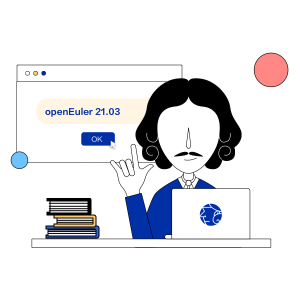
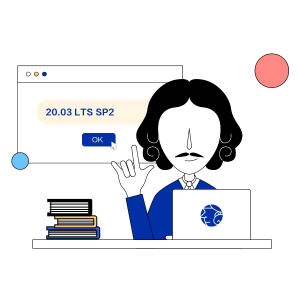
Add news about 20.03 LTS SP2 releases.

diff --git a/web-ui/docs/.vuepress/lang/lang-modules/home.js b/web-ui/docs/.vuepress/lang/lang-modules/home.js
@@ -50,8 +50,8 @@ module.exports = {
             }
         ],
         HOME_FIRST_BANNER: {
-            TITLE: "openEuler 21.03",
-            LINK: "/zh/docs/21.03/docs/Releasenotes/关键特性.html",
+            TITLE: "openEuler 20.03 LTS SP2",
+            LINK: "/zh/docs/20.03_LTS_SP2/docs/Releasenotes/关键特性.html",
             DES: "现已发布，欢迎体验",
             DOWNLOAD: '了解更多',
             IMG: "/img/home/banner0.png",
@@ -647,8 +647,8 @@ module.exports = {
         ],
         HOME_LAST_BANNER: {},
         HOME_FIRST_BANNER: {
-            TITLE: "openEuler 21.03 Version",
-            LINK: "/en/docs/21.03/docs/Releasenotes/key-features.html",
+            TITLE: "openEuler 20.03 LTS SP2 Version",
+            LINK: "/en/docs/20.03_LTS_SP2/docs/Releasenotes/key-features.html",
             DES: "has been released, welcome to use.",
             DOWNLOAD: 'Learn more',
             IMG: "/img/home/banner0.png",
@@ -1217,8 +1217,8 @@ module.exports = {
         ],
         HOME_LAST_BANNER: {},
         HOME_FIRST_BANNER: {
-            TITLE: "openEuler 21.03 Version",
-            LINK: "/en/docs/21.03/docs/Releasenotes/key-features.html",
+            TITLE: "openEuler 20.03 LTS SP2 Version",
+            LINK: "/en/docs/20.03_LTS_SP2/docs/Releasenotes/key-features.html",
             DES: "has been released, welcome to use.",
             DOWNLOAD: 'Learn more',
             IMG: "/img/home/banner0.png",

diff --git a/web-ui/docs/zh/news/20210715.md b/web-ui/docs/zh/news/20210715.md
@@ -1,0 +1,64 @@
+---
+title: "openEuler 20.03 LTS SP2 正式发布"
+date: "2021-07-15"
+tags:
+    - release
+banner: "img/banners/openeuler2003LTSSP2.png"
+author: "openEuler"
+summary: "openEuler 20.03 LTS SP2是openEuler 20.03 LTS 的补丁版本,欢迎体验。"
+---
+
+<ClientOnly>
+  <news-newsHeader />
+</ClientOnly>
+
+<div class="markdown">
+
+经过社区贡献者的共同努力，openEuler 正式发布了 **openEuler 20.03 LTS SP2** 版本。此版本是openEuler 20.03 LTS 的第二个补丁版本，生命周期与LTS版本相同。
+
+### 下载地址
+ISO 下载地址 [点击这里](https://repo.openeuler.org/openEuler-20.03-LTS-SP2/ISO/)
+
+Raspberry IMG 下载地址 [点击这里](https://repo.openeuler.org/openEuler-20.03-LTS-SP2/raspi_img/)
+
+### 关键特性列表
+#### 内存分级扩展
+支持多种内存、存储介质统一管理，系统容量平滑扩展。对于内存敏感和内热访问明显的业务，同等性能下，内存成本显著降低。
+
+-  **冷热页面识别**，通过内核态的内存页面忙闲统计机制，精确识别进程内存页面访问冷热分布。
+-  **淘汰策略可配置**，提供配置接口，可定制内存页面冷热分级策略。
+-  **平滑扩展**，冷页面自动换出到扩展内存，部署在其上的软件不需要改变和适配编程方式的情况下兼容的运行。
+-  **多介质扩展支持**，支持SCM、XL Flash、NVMe SSD等多种介质作为扩展内存，根据介质自身访问速度指定内存冷热分层方案，达到扩展内存并减少性能损失的目的。
+
+#### 虚拟化功能和可维测能力增强
+增加热迁移 Pro 能力扩展，提升可维可测能力。
+
+-  **热迁移Pro特性**，增强热迁移 multifd 支持 TLS，保障迁移过程数据安全；支持热迁移数据并行压缩，提升迁移性能；增加数据页面访问频率统计，支撑热迁移数据提前预测。
+-  **性能调试工具(vmtop)**， 可以实时动态查看虚拟机的资源使用情况，包括CPU使用率，内存使用率等信息。新增扩展支持x86_64架构。
+-  **IO悬挂支持**，IO发生错误时默认自动重试，超时会上报告警。
+-  **RISC-V架构支持虚拟化热迁移**
+
+#### 轻量虚拟运行时(Stratovirt)
+增加弹性内存、大页功能、系统调用过滤功能，增强IO子系统提升性能和稳定性。
+
+-  **弹性内存支持**，根据工作负载的内存需求，实现内存的分配和回收， virtio-balloon内存回收速度达3GB/秒。
+-  **大页支持**，在轻量级框架下提供大页的支持，可为轻量级虚拟机提供连续的物理内存页面，提高虚拟机内存访问效率。
+-  **系统调用过滤**，简化设备模型，增加系统调用过滤支持，最简配置下仅需使用35个系统调用，有效减小系统攻击面。
+-  **IO子系统增强**，支持多通道并发IO能力支持，提升性能；支持IO-QOS能力，提升虚拟机IO流量管理的灵活性和稳定性。
+
+#### secGear机密计算编程框架
+secGear 统一机密计算编程框架，提供了易用的开发套件，包括安全区（使用 secGear 编程会将系统区分为安全区域和非安全区域） 生命周期管理、安全开发库、代码辅助生成工具、代码构建与签名工具、安全能力和安全服务组件实现方案。可用于信任环、密态数据库、多方计算、AI安全保护等多种场景。
+
+-  **服务层**，提供完整的运行在安全侧的安全服务
+-  **中间件层**，提供一套协议接口，满足用户基本安全应用
+-  **基础层**，提供丰富的 enclave 开发接口或工具，并且在安全侧支持 C POSIX APIs 和标准 OpenSSL 接口，用户基于这些接口可以自由开发安全应用程序 
+
+#### OpenStack Queens/Rocky支持
+OpenStack Queens/Rocky是一款简单、可大规模扩展、丰富、标准统一的云管理操作系统，更多特性请参考OpenStack Queens/Rocky官方发行说明。[oepkg](https://repo.oepkgs.net/openEuler/rpm/openEuler-20.03-LTS-SP2/budding-openeuler/openstack/)提供软件包下载服务。
+
+-  **集成openStack Queens/Rocky版本**，使能基础设施即服务(IaaS)解决方案。
+-  **增强块存储服务能力**，增加容量扩展、快照和虚拟机镜像克隆等高级功能。
+-  **增强容器化部署和网络能力**，与容器能更好的集成。
+-  **增加扩展服务支持**，支持控制面板管理、裸机部署、云资源追踪等扩展服务。 
+
+</div>
